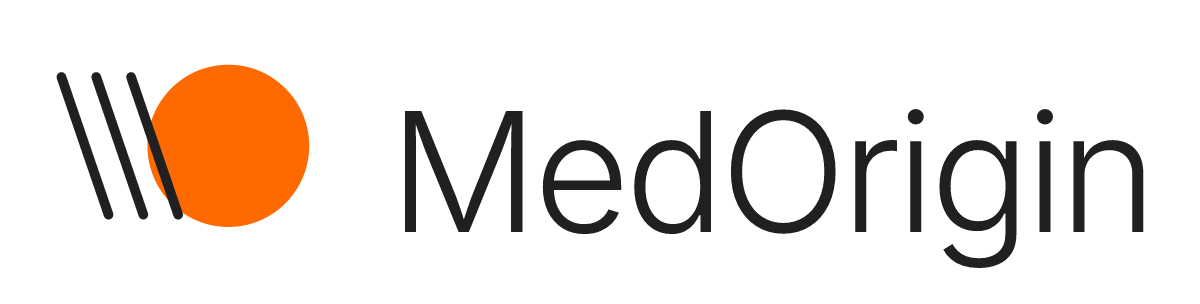
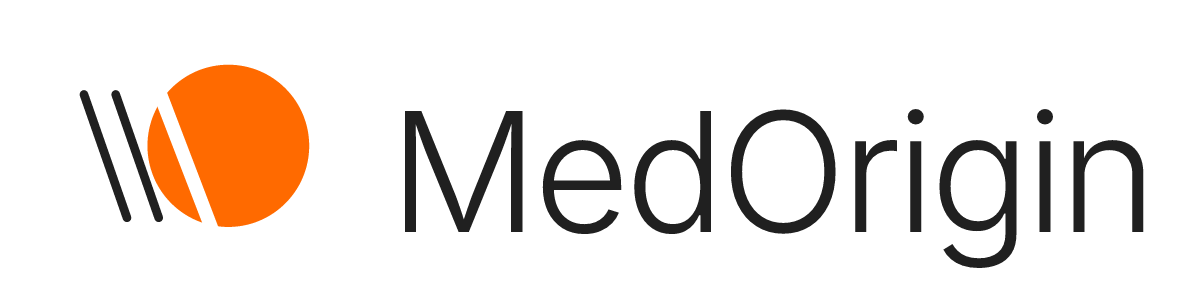
fix(brand): match approved orange disc and transparent third cut

Changed region(s): [[0.0308, 0.2368, 0.185, 0.7401]]

diff --git a/tests/test_medorigin_brand_identity.py b/tests/test_medorigin_brand_identity.py
@@ -1,0 +1,57 @@
+"""Lock the founder-approved MedOrigin Concept 01 geometry in the source repo."""
+
+import xml.etree.ElementTree as ET
+from pathlib import Path
+
+ROOT = Path(__file__).resolve().parents[1] / "assets" / "brand"
+SVG = "{http://www.w3.org/2000/svg}"
+
+
+def _read_asset(name: str) -> ET.Element:
+    return ET.parse(ROOT / name).getroot()
+
+
+def test_two_visible_strokes_and_transparent_third_slash() -> None:
+    icon = _read_asset("medorigin-symbol.svg")
+    strokes = [e for e in icon.iter(f"{SVG}g") if e.get("stroke") == "#202020"]
+    assert len(strokes) == 1
+    lines = strokes[0].findall(f"{SVG}path")
+    assert [p.get("d") for p in lines] == [
+        "M68 78 L110 198",
+        "M99 78 L141 198",
+    ]
+    assert strokes[0].get("stroke-width") == "8.5"
+    clips = list(icon.iter(f"{SVG}clipPath"))
+    assert len(clips) == 1
+    disc = clips[0].find(f"{SVG}circle")
+    assert disc is not None
+    assert (disc.get("cx"), disc.get("cy"), disc.get("r")) == (
+        "209",
+        "128",
+        "79",
+    )
+    filled = [g for g in icon.iter(f"{SVG}g") if g.get("fill") == "#FF6A00"]
+    assert len(filled) == 1
+    assert filled[0].get("clip-path") == "url(#mo-disc)"
+    assert len(filled[0].findall(f"{SVG}path")) == 2
+    guidance = (ROOT / "README.md").read_text(encoding="utf8").lower()
+    assert "two visible" in guidance
+    assert "negative-space (transparent) cut" in guidance
+
+
+def test_all_lockups_share_corrected_mark() -> None:
+    for name in (
+        "medorigin-lockup-horizontal.svg",
+        "medorigin-lockup-stacked.svg",
+        "medorigin-app-icon.svg",
+        "medorigin-lockup-inverse.svg",
+    ):
+        root = _read_asset(name)
+        clips = list(root.iter(f"{SVG}clipPath"))
+        assert len(clips) == 1, name
+        assert len(list(root.iter(f"{SVG}circle"))) == 1, name
+        dark_or_white_strokes = [
+            g for g in root.iter(f"{SVG}g") if g.get("stroke") in {"#202020", "#FFFFFF"}
+        ]
+        assert len(dark_or_white_strokes) == 1, name
+        assert len(dark_or_white_strokes[0].findall(f"{SVG}path")) == 2, name

diff --git a/assets/brand/README.md b/assets/brand/README.md
@@ -1,20 +1,23 @@
-# MedOrigin — Visual Identity 01
+# MedOrigin — Official Visual Identity 01 (reference matched)
 
-Approved Concept: Overlap Forward.
-A solid orange circle and three charcoal slashes of identical width, length
-and tilt. The rightmost slash intersects the LEFT edge of the orange circle.
-The geometry does not match the placement of the Linear app logo.
+Founder-approved concept 01 / Overlap Forward, 23 October 2026.
 
-Colors: orange #FF6A00; charcoal #202020; paper #FAF7F3; white #FFFFFF.
-The selected orange matches the approved visual reference, not an asserted
-official third-party brand specification.
+The canonical symbol has TWO visible, equally sized, parallel charcoal
+diagonal strokes to the LEFT of a filled orange circle. A THIRD angled
+negative-space (transparent) cut crosses the LEFT edge of the orange disc.
+A thin orange segment remains on the outside of the transparent cut.
+Do NOT replace the negative-space cut with a third charcoal stroke or place
+three black strokes on the orange circle.
 
-The canonical editable masters are medorigin-symbol.svg and
-medorigin-lockup-horizontal.svg. All MedOrigin text is vector-outlined and
-requires no installed font. PNG/ICO files are practical exports.
-The inverse SVG is transparent and meant for dark backgrounds.
-The brand preview is an illustration, not a source asset.
+Colors: primary orange #FF6A00, charcoal #202020, paper #FAF7F3.
+SVG masters are vector based, font independent, and use a real transparent
+cut so they work on light and dark backgrounds. Inverse lockup uses white
+visible lines and wordmark. No gradient, glow, 3D, shadow, navy, or web font.
 
-Rules: Keep three lines equal, the circle solid, and all geometry flat.
-No navy, gradients, shadow, glow, or 3D effects. Test 16/32px icon clarity.
-No clinical approval or release is represented by this visual identity.
+Canonical files are medorigin-symbol.svg, medorigin-wordmark.svg,
+medorigin-lockup-horizontal.svg, medorigin-lockup-stacked.svg,
+medorigin-lockup-inverse.svg and medorigin-app-icon.svg. Other PNG, favicon
+and preview outputs are reproducible exports.
+
+Brand identity is not a clinical, scientific or release authorization.
+Source provenance and historical attribution remain unchanged.

diff --git a/docs/BRAND_TRANSITION.md b/docs/BRAND_TRANSITION.md
@@ -15,8 +15,8 @@ Use **MedOrigin** in new public-facing product documentation, repository metadat
 ## Official visual identity
 
 The founder-approved MedOrigin identity (Concept 01 / Overlap Forward) is published
-in [assets/brand](../assets/brand/README.md). The canonical mark consists of three
-equal charcoal diagonal strokes intersecting the left of a solid orange circle.
+in [assets/brand](../assets/brand/README.md). The canonical mark has two visible equal charcoal diagonal strokes to the left
+of an orange circle, with a third transparent slash cutting the circle edge.
 Use orange `#FF6A00`, charcoal `#202020`, and warm paper `#FAF7F3`.
 All MedOrigin wordmark files are self-contained outlined SVGs; no font file is
 redistributed. The approved assets do not imply clinical validation or publication.
